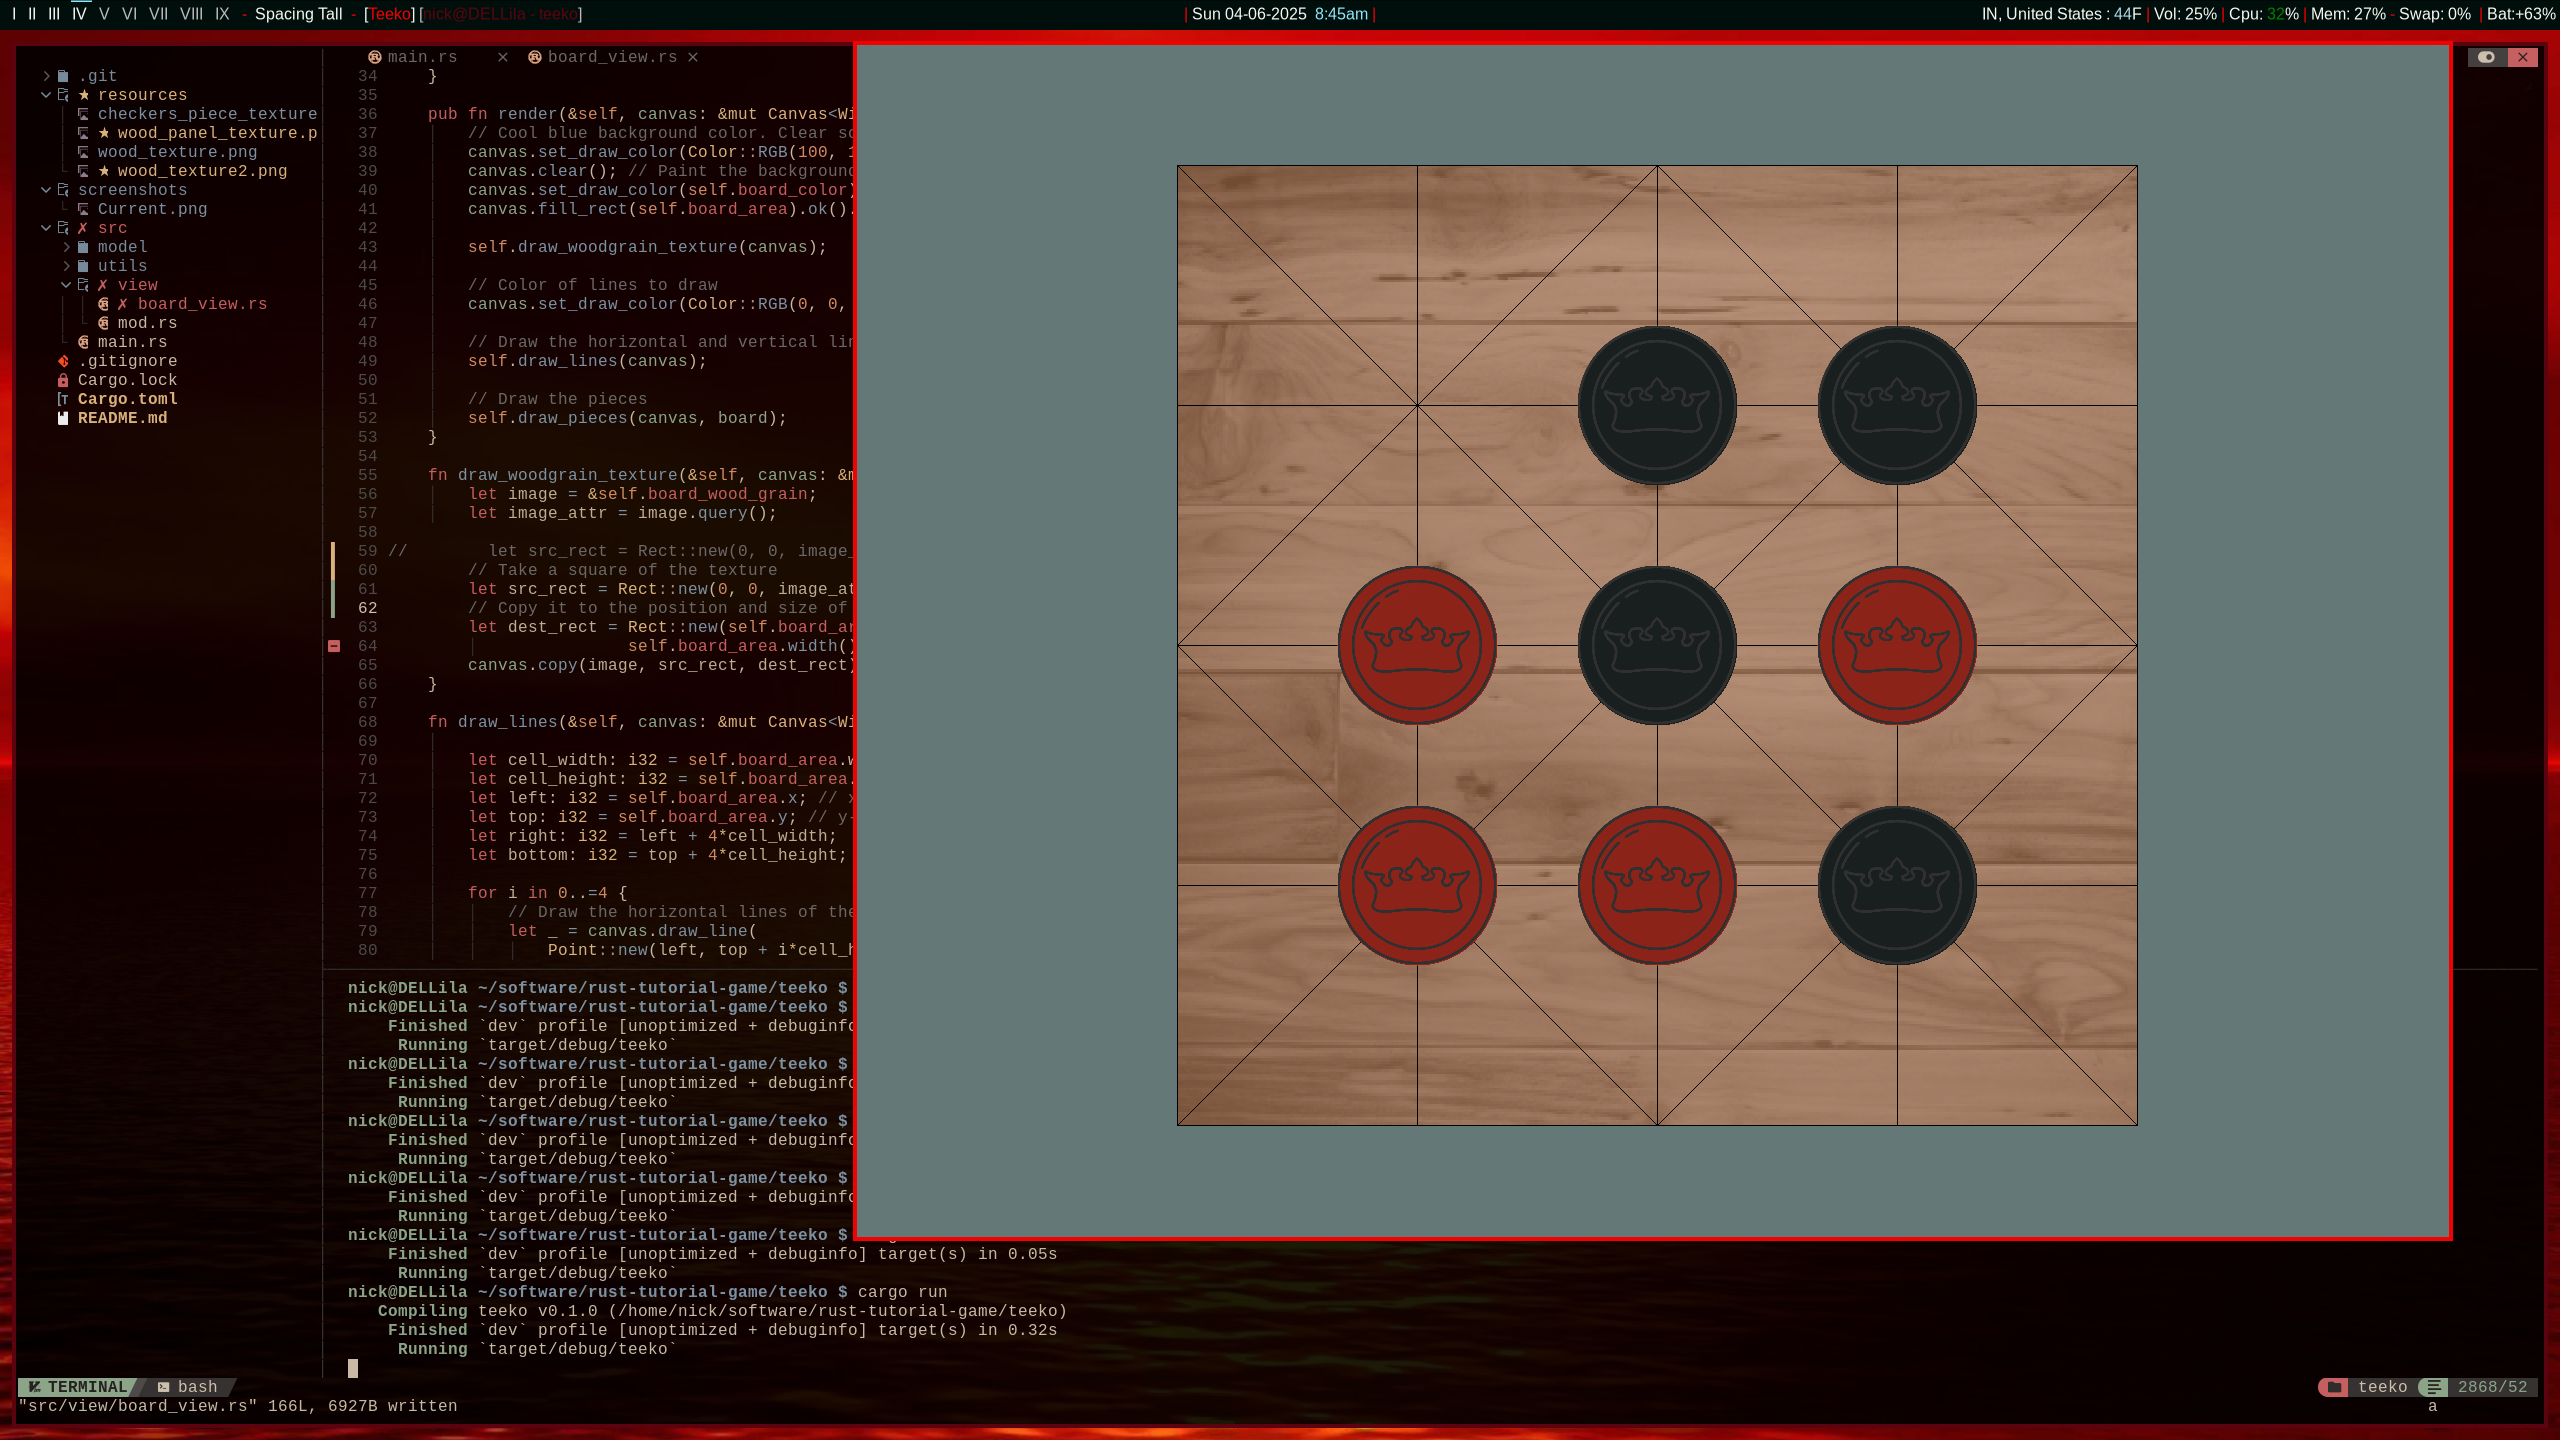
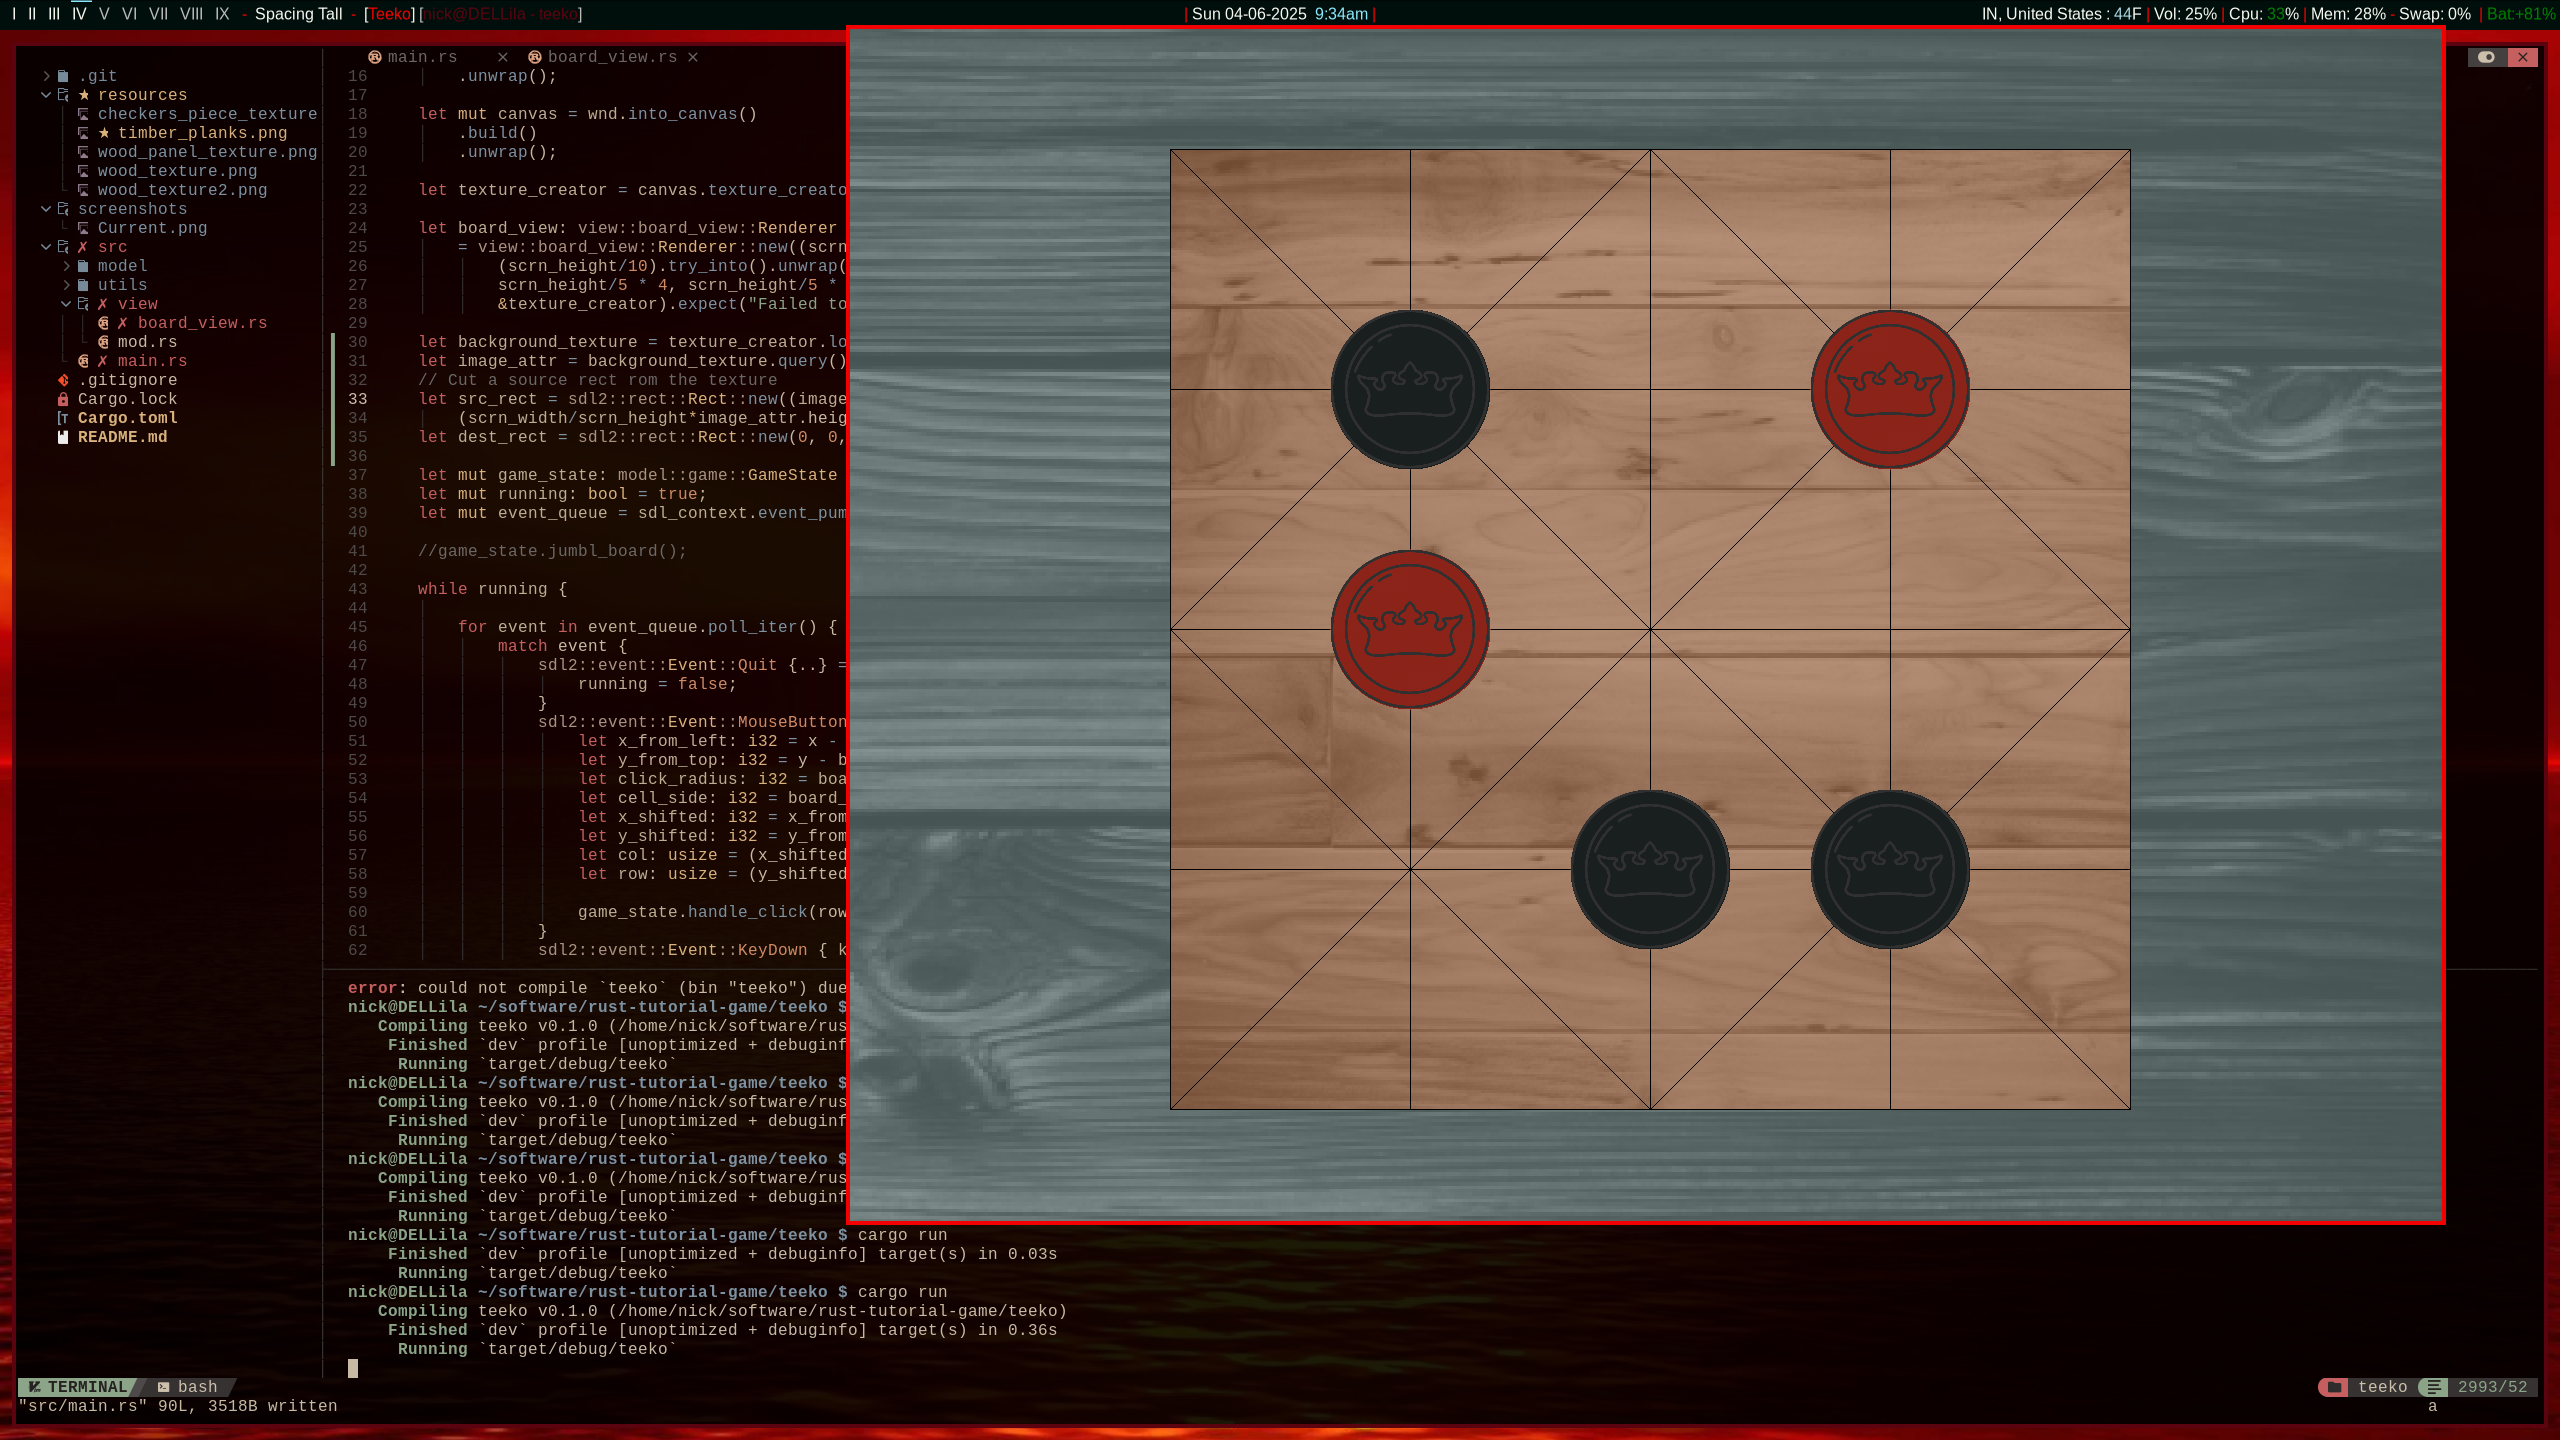
loaded transparent plank texture for the table on the background

diff --git a/src/main.rs b/src/main.rs
@@ -2,7 +2,7 @@ mod view;
 mod model;
 mod utils;
 
-
+use sdl2::image::LoadTexture;
 
 fn main() -> Result<(), String> {
   
@@ -26,6 +26,13 @@ fn main() -> Result<(), String> {
             (scrn_height/10).try_into().unwrap(), 
             scrn_height/5 * 4, scrn_height/5 * 4,
             &texture_creator).expect("Failed to create the renderer");
+
+    let background_texture = texture_creator.load_texture("resources/timber_planks.png").expect("Loading background texture");
+    let image_attr = background_texture.query();
+    // Cut a source rect rom the texture
+    let src_rect = sdl2::rect::Rect::new((image_attr.width - (scrn_width/scrn_height*image_attr.height)).try_into().unwrap(), 0, 
+        (scrn_width/scrn_height*image_attr.height).try_into().unwrap(), (image_attr.height).try_into().unwrap());
+    let dest_rect = sdl2::rect::Rect::new(0, 0, scrn_width, scrn_height);
 
     let mut game_state: model::game::GameState = model::game::GameState::new();
     let mut running: bool = true;
@@ -65,6 +72,15 @@ fn main() -> Result<(), String> {
             }
         }
         
+
+        // Cool blue background color. Clear screen with this color set to draw
+        canvas.set_draw_color(sdl2::pixels::Color::RGB(100, 120, 120));
+        canvas.clear(); // Paint the background color
+
+        // THE FOLLOWING LINE WILL CRASH THE PROGRAM IF WINDOW IS RESIZED TOO MUCH
+        // USERS BEWARE
+        // Copy background planks texture into the destination rect: the screen area
+        canvas.copy(&background_texture, src_rect, dest_rect)?;       
         board_view.render(&mut canvas, &game_state.board);
 
         canvas.present();

diff --git a/src/view/board_view.rs b/src/view/board_view.rs
@@ -34,9 +34,6 @@ impl<'a> Renderer<'a> {
     }
 
     pub fn render(&self, canvas: &mut Canvas<Window>, board: &[[BoardPiece; 5]; 5]) {
-        // Cool blue background color. Clear screen with this color set to draw
-        canvas.set_draw_color(Color::RGB(100, 120, 120));
-        canvas.clear(); // Paint the background color
         canvas.set_draw_color(self.board_color); // Color of the board
         canvas.fill_rect(self.board_area).ok().unwrap_or_default();
 
